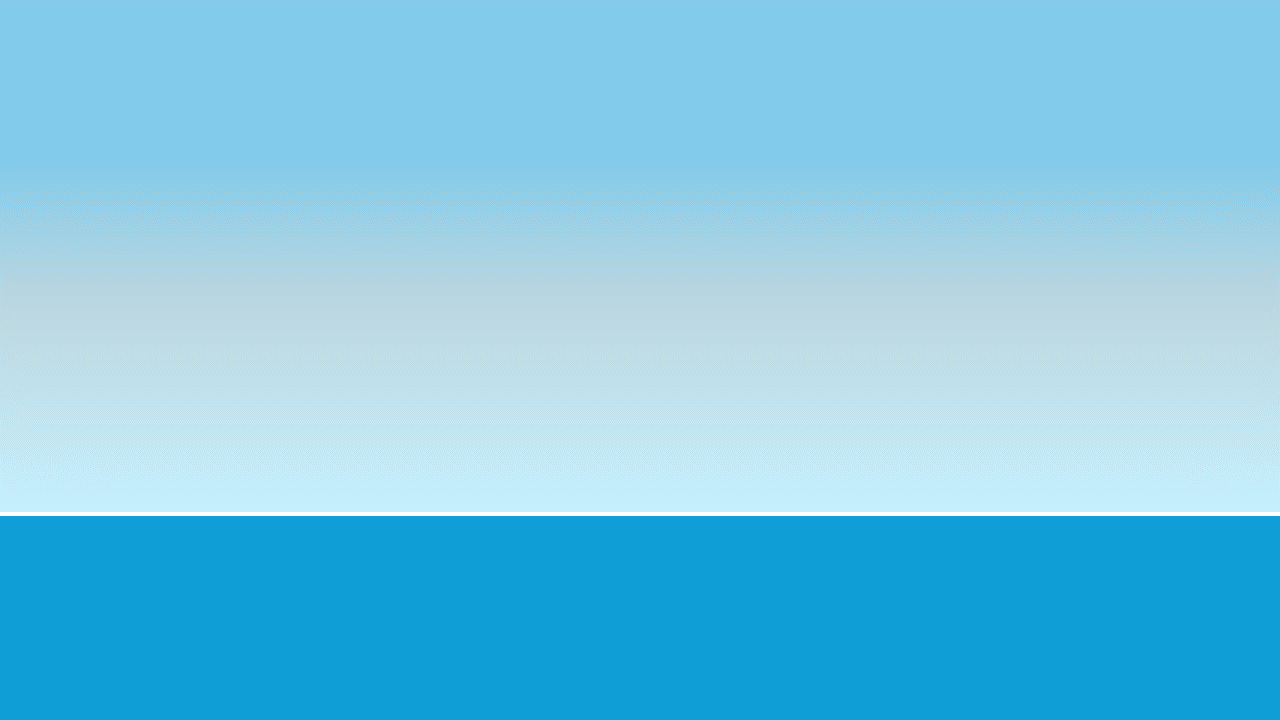
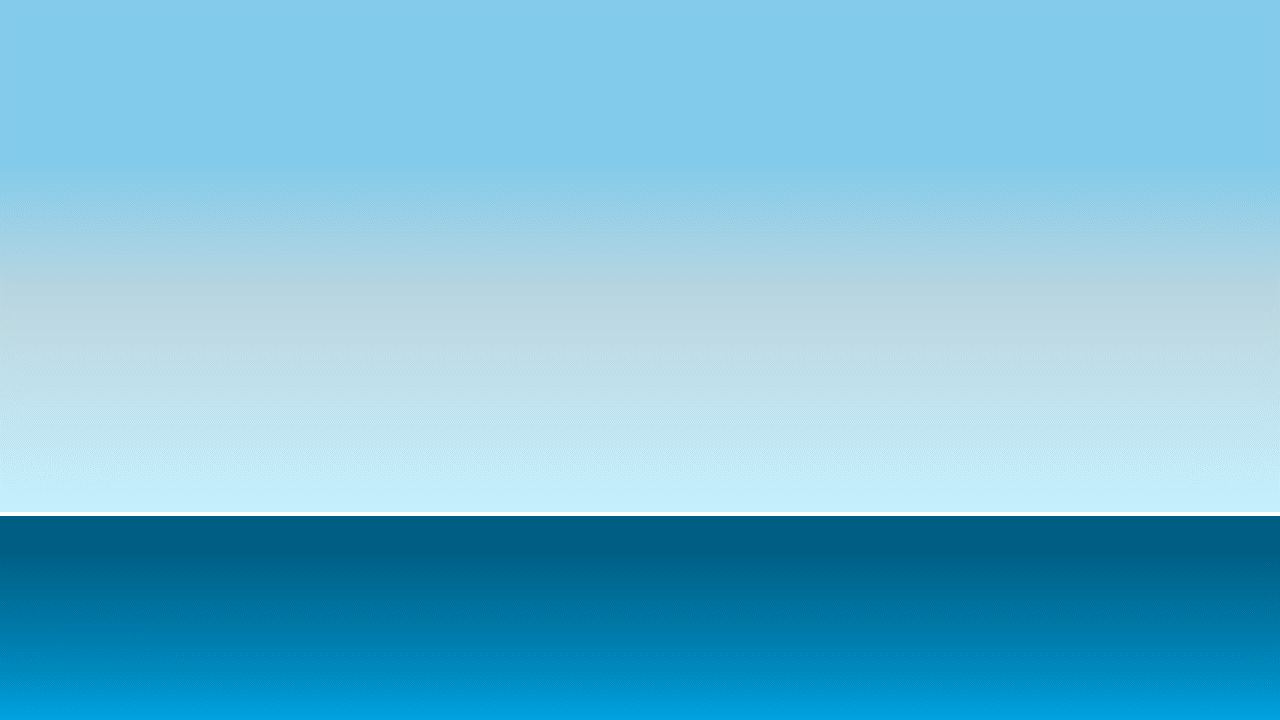
Scena Menu pt2
In MenuScene ora è presente un gabbiano e le nuvole piccole, inizio a costruire la UI

Changed region(s): [[0.0, 0.7028, 1.0, 0.9472]]

diff --git a/PlatformerGame/src/main/java/org/example/GameScenes/MenuScene.java b/PlatformerGame/src/main/java/org/example/GameScenes/MenuScene.java
@@ -7,44 +7,55 @@ import java.awt.*;
 import java.awt.event.KeyEvent;
 import java.awt.event.MouseEvent;
 import java.awt.image.BufferedImage;
-import java.util.Map;
 import java.util.Random;
 
-import static org.example.Constants.Prop.Environment.*;
-import static org.example.Constants.Sprites.Level.*;
+import static org.example.Constants.Prop.BigCloud.*;
+import static org.example.Constants.Prop.Seagull.*;
+import static org.example.Constants.Prop.Ship.*;
+import static org.example.Constants.UI.*;
 import static org.example.Constants.Window.*;
 
 public class MenuScene implements SceneMethods{
     private Game game;
-    private BufferedImage deepBackground;
-    private BufferedImage[] bigClouds, smallCloud;
-    private float bigCloudsDrawn;
     private Random random;
-    private float cloudsOffset;
-    private int maxCloudsOffset;
+    private BufferedImage deepBackground;
 
-
+    private BufferedImage[] bigClouds;
+    private float cloudsOffsetX;
+    private int maxCloudsOffsetX;
     private int[] drawnBigCloudsIndexes;
-    private int initialCloudOffset;
 
+    private BufferedImage smallCloud;
 
     private BufferedImage[] shipImages;
     private int shipAnimationFrame;
     private int shipAnimationTick;
+    private int shipFloatingDirection = 1;
+    private float shipFloatingOffset = 0;
 
+    private BufferedImage[] seagullImages;
+    private int seagullAnimationFrame;
+    private int seagullAnimationTick;
+    private float seagullOffsetX;
+    private int maxSeagullOffsetX;
+    private int seagullFloatingDirection = -1;
+    private float seagullFloatingOffset = 0;
+    private int seagullRandomOffsetY;
 
-    private int direction = 1;
-    private float yoffset = 0;
+    private BufferedImage menuBackground;
 
 
     public MenuScene(Game game) {
         this.game = game;
         this.random = new Random();
-        this.bigCloudsDrawn = 0.0f;
-        this.cloudsOffset = 0;
-        this.initialCloudOffset = 0;
+        this.cloudsOffsetX = 0;
         this.drawnBigCloudsIndexes = new int[3];
         this.shipAnimationTick = 0;
+        this.seagullAnimationTick = 0;
+        this.shipAnimationFrame = 0;
+        this.seagullAnimationFrame = 0;
+        this.seagullOffsetX = GAME_WIDTH/2 ;
+        this.seagullRandomOffsetY = random.nextInt(100);
         loadAnimations();
         createBigClouds();
     }
@@ -55,43 +66,56 @@ public class MenuScene implements SceneMethods{
         bigClouds[0] = LoadContent.GetSpriteAtlas(LoadContent.BIG_CLOUD_1);
         bigClouds[1] = LoadContent.GetSpriteAtlas(LoadContent.BIG_CLOUD_2);
         bigClouds[2] = LoadContent.GetSpriteAtlas(LoadContent.BIG_CLOUD_3);
-
+        smallCloud = LoadContent.GetSpriteAtlas(LoadContent.SMALL_CLOUD);
 
         BufferedImage img = LoadContent.GetSpriteAtlas(LoadContent.SHIP_ATLAS);
         shipImages = new BufferedImage[8];
         for(int i = 0; i < SHIP_SPRITE_AMOUNT; i++) {
             shipImages[i] = img.getSubimage(i*80, 0, 80, 65);
         }
+
+        img = LoadContent.GetSpriteAtlas(LoadContent.SEAGULL_ATLAS);
+        seagullImages = new BufferedImage[6];
+        for(int i = 0; i < SEAGULL_SPRITE_AMOUNT; i++) {
+            seagullImages[i] = img.getSubimage(i*30, 0, 30, 37);
+        }
+
+        menuBackground = LoadContent.GetSpriteAtlas(LoadContent.MENU_BACKGROUND);
     }
 
 
-    private void drawBigClouds(Graphics g, int offset) {
+
+
+
+
+    private void drawBigClouds(Graphics g) {
         int cloudInitialPosition = 0;
         for(int i = 0; i<drawnBigCloudsIndexes.length; i++){
             g.drawImage(bigClouds[drawnBigCloudsIndexes[i]],
-                    cloudInitialPosition - offset + initialCloudOffset,
+                    cloudInitialPosition - (int)(cloudsOffsetX),
                     (int)(218 * SCALE), BIG_CLOUD_WIDTH[drawnBigCloudsIndexes[i]], BIG_CLOUD_HEIGHT[drawnBigCloudsIndexes[i]], null);
-            cloudInitialPosition += (int) (BIG_CLOUD_WIDTH[drawnBigCloudsIndexes[i]] + (300*SCALE));
+            cloudInitialPosition += BIG_CLOUD_WIDTH[drawnBigCloudsIndexes[i]] + 150*SCALE;
         }
     }
 
-    private void drawSmallClouds(Graphics g, int xLvlOffset) {
-        int sizeDrawn = 0;
-        //g.drawImage(smallCloud, sizeDrawn - (int)(xLvlOffset * 0.7), (int)(110* SCALE), SMALL_CLOUD_WIDTH, SMALL_CLOUD_HEIGHT, null);
+    private void drawSmallClouds(Graphics g) {
+        g.drawImage(smallCloud, (int) (180*SCALE), (int)(90* SCALE), SMALL_CLOUD_WIDTH, SMALL_CLOUD_HEIGHT, null);
+        g.drawImage(smallCloud, (int) (280*SCALE), (int)(150* SCALE), SMALL_CLOUD_WIDTH, SMALL_CLOUD_HEIGHT, null);
     }
 
     @Override
     public void update() {
         updateClouds();
         updateShipAnimationTick();
+        updateSeagullAnimationTick();
     }
 
     private void updateShipAnimationTick() {
         shipAnimationTick++;
-        if(yoffset >= 3 || yoffset <= -3){
-            direction = direction*-1;
+        if(shipFloatingOffset >= 3 || shipFloatingOffset <= -3){
+            shipFloatingDirection = shipFloatingDirection *-1;
         }
-        yoffset+=direction*0.025f;
+        shipFloatingOffset += shipFloatingDirection *0.015f;
 
         if (shipAnimationTick >= SHIP_ANIMATION_SPEED) {
             shipAnimationTick = 0;
@@ -101,35 +125,68 @@ public class MenuScene implements SceneMethods{
         }
     }
 
+    private void updateSeagullAnimationTick() {
+        seagullAnimationTick++;
+        if(seagullFloatingOffset >= 3 || seagullFloatingOffset <= -3){
+            seagullFloatingDirection = seagullFloatingDirection *-1;
+        }
+        seagullFloatingOffset += seagullFloatingOffset *0.025f;
+
+        if (seagullAnimationTick >= SEAGULL_ANIMATION_SPEED) {
+            seagullAnimationTick = 0;
+            seagullAnimationFrame++;
+            if (seagullAnimationFrame >= SEAGULL_SPRITE_AMOUNT)
+                seagullAnimationFrame = 0;
+        }
+
+
+        seagullOffsetX = seagullOffsetX - 0.5f*SCALE;
+        if(seagullOffsetX <= -SEAGULL_WIDTH){
+            seagullOffsetX = GAME_WIDTH ;
+            seagullRandomOffsetY = random.nextInt(100);
+        }
+
+
+    }
+
     private void updateClouds() {
-        cloudsOffset = cloudsOffset+ 0.2f * SCALE;
-        if(cloudsOffset > maxCloudsOffset){
-            cloudsOffset = 0;
-            initialCloudOffset = GAME_WIDTH;
+        cloudsOffsetX = cloudsOffsetX + 0.2f*SCALE;
+        if(cloudsOffsetX > maxCloudsOffsetX){
             createBigClouds();
+            cloudsOffsetX = -GAME_WIDTH;
         }
     }
 
     private void createBigClouds() {
         int cloudIndex;
+        maxCloudsOffsetX = 0;
         for (int i = 0; i<3; i++){
             cloudIndex= random.nextInt(3);
             drawnBigCloudsIndexes[i] = cloudIndex;
-            maxCloudsOffset += BIG_CLOUD_WIDTH[cloudIndex];
+            maxCloudsOffsetX += BIG_CLOUD_WIDTH[cloudIndex];
         }
-        maxCloudsOffset += (int) (600 * SCALE);
+        maxCloudsOffsetX += 300*SCALE;
     }
-
 
     @Override
     public void draw(Graphics g) {
         g.drawImage(deepBackground, 0, 0, GAME_WIDTH, GAME_HEIGHT, null);
-        drawBigClouds(g, (int) cloudsOffset);
+        drawBigClouds(g);
         drawShip(g);
+        drawSeagull(g);
+        drawSmallClouds(g);
+        g.drawImage(menuBackground, (int) (450*SCALE), (int) (50*SCALE), MENU_BACKGROUND_WIDTH, MENU_BACKGROUND_HEIGHT, null);
+    }
+
+    private void drawSeagull(Graphics g) {
+        g.drawImage(seagullImages[seagullAnimationFrame],
+                (int) seagullOffsetX,
+                (int) ((300 + shipFloatingOffset + seagullRandomOffsetY) * SCALE),
+                SEAGULL_WIDTH, SEAGULL_HEIGHT, null);
     }
 
     private void drawShip(Graphics g) {
-        g.drawImage(shipImages[shipAnimationFrame], 100, (int) (500 + yoffset), (int) (80*SCALE), (int) (76*SCALE), null);
+        g.drawImage(shipImages[shipAnimationFrame], (int) (50 * SCALE), (int) ((252 + shipFloatingOffset) * SCALE), SHIP_WIDTH, SHIP_HEIGHT, null);
     }
 
     @Override

diff --git a/PlatformerGame/src/main/java/org/example/Constants/Prop.java b/PlatformerGame/src/main/java/org/example/Constants/Prop.java
@@ -4,17 +4,11 @@ import static org.example.Constants.Window.SCALE;
 
 public class Prop {
 
-    public class Environment {
-
-
+    public class BigCloud {
         public static final int[] BIG_CLOUD_WIDTH_DEFAULT = big_clouds_width_def();
-
-
-
         public static final int[] BIG_CLOUD_HEIGHT_DEFAULT = big_clouds_height_def();
         public static final int[] BIG_CLOUD_WIDTH = big_clouds_width();
         public static final int[] BIG_CLOUD_HEIGHT =  big_clouds_height();
-
 
         public static final int SMALL_CLOUD_WIDTH_DEFAULT = 74;
         public static final int SMALL_CLOUD_HEIGHT_DEFAULT = 24;
@@ -53,16 +47,47 @@ public class Prop {
             return big_clouds_height;
         }
 
-        public Environment(){
+        public BigCloud(){
 
         }
     }
 
+    public class SmallCloud {
+        public static final int SMALL_CLOUD_WIDTH_DEFAULT = 74;
+        public static final int SMALL_CLOUD_HEIGHT_DEFAULT = 24;
+        public static final int SMALL_CLOUD_WIDTH = (int) (SMALL_CLOUD_WIDTH_DEFAULT * SCALE);
+        public static final int SMALL_CLOUD_HEIGHT = (int) (SMALL_CLOUD_HEIGHT_DEFAULT * SCALE);
+    }
+
+    public class Sword {
+        public static final int SWORD = 0;
+        public static final int SWORD_WIDTH_DEFAULT = 8;
+        public static final int SWORD_HEIGHT_DEFAULT = 13;
+        public static final int SWORD_WIDTH = (int) (SWORD_WIDTH_DEFAULT * SCALE);
+        public static final int SWORD_HEIGHT = (int) (SWORD_HEIGHT_DEFAULT * SCALE);
+    }
+
+    public class Ship {
+        public static final int SHIP_SPRITE_AMOUNT = 8;
+        public static final int SHIP_ANIMATION_SPEED = 25;
 
 
-    public static final int SWORD = 0;
-    public static final int SWORD_WIDTH_DEFAULT = 8;
-    public static final int SWORD_HEIGHT_DEFAULT = 13;
-    public static final int SWORD_WIDTH = (int) (SWORD_WIDTH_DEFAULT * SCALE);
-    public static final int SWORD_HEIGHT = (int) (SWORD_HEIGHT_DEFAULT * SCALE);
+        public static final int SHIP_WIDTH_DEFAULT = 80;
+        public static final int SHIP_HEIGHT_DEFAULT = 76;
+        public static final int SHIP_WIDTH = (int) (SHIP_WIDTH_DEFAULT * SCALE);
+        public static final int SHIP_HEIGHT = (int) (SHIP_HEIGHT_DEFAULT * SCALE);
+
+    }
+
+    public class Seagull {
+
+        public static final int SEAGULL_SPRITE_AMOUNT = 6;
+        public static final int SEAGULL_ANIMATION_SPEED = 80;
+
+        public static final int SEAGULL_WIDTH_DEFAULT = 30;
+        public static final int SEAGULL_HEIGHT_DEFAULT = 37;
+        public static final int SEAGULL_WIDTH = (int) (SEAGULL_WIDTH_DEFAULT * SCALE);
+        public static final int SEAGULL_HEIGHT = (int) (SEAGULL_HEIGHT_DEFAULT * SCALE);
+
+    }
 }

diff --git a/PlatformerGame/src/main/java/org/example/Utility/LoadContent.java b/PlatformerGame/src/main/java/org/example/Utility/LoadContent.java
@@ -15,14 +15,16 @@ public class LoadContent {
     public static final String LEVEL_ANIMATED_WATER = "animations/Objects/water_animated_sprites.png";
     public static final String PLAYSCENE_DEEP_BACKGROUND = "playScene_deep_background.png";
     public static final String MENUSCENE_DEEP_BACKGROUND = "menuScene_deep_background.png";
-    public static final String BIG_CLOUD_1 = "big_cloud_1.png";
-    public static final String BIG_CLOUD_2 = "big_cloud_2.png";
-    public static final String BIG_CLOUD_3 = "big_cloud_3.png";
-    public static final String SMALL_CLOUD = "small_cloud.png";
+    public static final String BIG_CLOUD_1 = "objects/big_cloud_1.png";
+    public static final String BIG_CLOUD_2 = "objects/big_cloud_2.png";
+    public static final String BIG_CLOUD_3 = "objects/big_cloud_3.png";
+    public static final String SMALL_CLOUD = "objects/small_cloud.png";
     public static final String SWORD_IMAGE = "objects/sword.png";
     public static final String HEALTH_HUD = "hud/health_hud.png";
-    public static final String SEAGUL_ATLAS = "animations/Objects/seagul_sprites.png";
-    public static final String SHIP_ATLAS = "animations/Objects/ship_sprite.png";
+    public static final String SEAGULL_ATLAS = "animations/Objects/seagull_sprites.png";
+    public static final String SHIP_ATLAS = "animations/Objects/ship_sprite_floating.png";
+    public static final String BARREL_CREATURE_ATLAS = "animations/Objects/barrel_creature_sprite.png";
+    public static final String MENU_BACKGROUND = "menu_background.png";
 
 
     public static BufferedImage GetSpriteAtlas(String fileName) {

diff --git a/PlatformerGame/src/main/java/org/example/Constants/UI.java b/PlatformerGame/src/main/java/org/example/Constants/UI.java
@@ -1,0 +1,12 @@
+package org.example.Constants;
+
+import static org.example.Constants.Window.SCALE;
+
+public class UI{
+    public static final int MENU_BACKGROUND_WIDTH_DEFAULT = (int) (141 * SCALE);
+    public static final int MENU_BACKGROUND_HEIGHT_DEFAULT = (int) (168 * SCALE);
+    public static final int MENU_BACKGROUND_WIDTH = (int) (MENU_BACKGROUND_WIDTH_DEFAULT * SCALE);
+    public static final int MENU_BACKGROUND_HEIGHT = (int) (MENU_BACKGROUND_HEIGHT_DEFAULT * SCALE);
+
+
+}

diff --git a/PlatformerGame/src/main/java/org/example/Constants/Window.java b/PlatformerGame/src/main/java/org/example/Constants/Window.java
@@ -6,6 +6,7 @@ public class Window {
     public final static int TILES_IN_WIDTH = 26;//26
     public final static int TILES_IN_HEIGHT = 14;//14
     public final static int TILES_SIZE = (int) (TILES_DEFAULT_SIZE * SCALE);
+    public final static int GAME_WIDTH_DEFAULT = TILES_DEFAULT_SIZE * TILES_IN_WIDTH;
     public final static int GAME_WIDTH = TILES_SIZE * TILES_IN_WIDTH;
     public final static int GAME_HEIGHT = TILES_SIZE * TILES_IN_HEIGHT;
 }

diff --git a/PlatformerGame/src/main/java/org/example/Levels/LevelManager.java b/PlatformerGame/src/main/java/org/example/Levels/LevelManager.java
@@ -10,7 +10,7 @@ import java.awt.geom.Rectangle2D;
 import java.awt.image.BufferedImage;
 import java.awt.image.RasterFormatException;
 
-import static org.example.Constants.Prop.Environment.*;
+import static org.example.Constants.Prop.BigCloud.*;
 import static org.example.Constants.Sprites.Level.WATER_ANIMATION_SPEED;
 import static org.example.Constants.Sprites.Level.ANIMATED_WATER_SPRITE_AMOUNT;
 import static org.example.Constants.Window.*;

diff --git a/PlatformerGame/src/main/java/org/example/Constants/HUD.java b/PlatformerGame/src/main/java/org/example/Constants/HUD.java
@@ -2,7 +2,7 @@ package org.example.Constants;
 
 import static org.example.Constants.Window.SCALE;
 
-public class HUD {
+public class HUD{
     public static final int HEALTH_BAR_WIDTH = (int) (192 * SCALE);
     public static final int HEALTH_BAR_HEIGHT = (int) (34 * SCALE);
     public static final int HEALTH_BAR_X = (int) (10 * SCALE);

diff --git a/PlatformerGame/src/main/java/org/example/Constants/Sprites.java b/PlatformerGame/src/main/java/org/example/Constants/Sprites.java
@@ -78,7 +78,5 @@ public class Sprites {
         public static final int WATER = 50;
         public static final int ANIMATED_WATER_SPRITE_AMOUNT = 4;
         public static final int WATER_ANIMATION_SPEED = 25;
-        public static final int SHIP_SPRITE_AMOUNT = 8;
-        public static final int SHIP_ANIMATION_SPEED = 25;
     }
 }

diff --git a/PlatformerGame/src/main/java/org/example/Levels/Level.java b/PlatformerGame/src/main/java/org/example/Levels/Level.java
@@ -10,7 +10,7 @@ import java.awt.geom.Rectangle2D;
 import java.awt.image.BufferedImage;
 import java.util.ArrayList;
 
-import static org.example.Constants.Prop.SWORD;
+import static org.example.Constants.Prop.Sword.SWORD;
 import static org.example.Constants.Sprites.Level.*;
 import static org.example.Constants.Window.*;
 

diff --git a/PlatformerGame/src/main/java/org/example/Props/Sword.java b/PlatformerGame/src/main/java/org/example/Props/Sword.java
@@ -5,7 +5,7 @@ import org.example.Utility.LoadContent;
 import java.awt.*;
 import java.awt.image.BufferedImage;
 
-import static org.example.Constants.Prop.*;
+import static org.example.Constants.Prop.Sword.*;
 import static org.example.Constants.Window.SCALE;
 import static org.example.Utility.LoadContent.SWORD_IMAGE;
 
